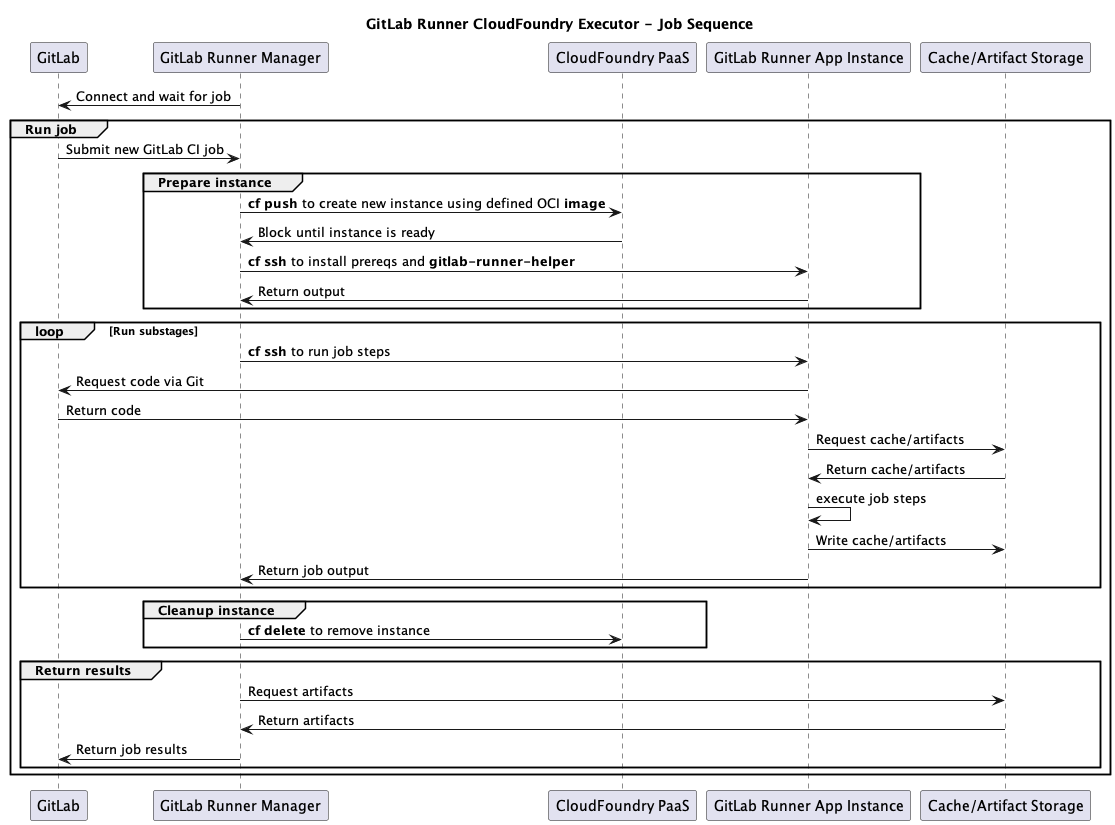
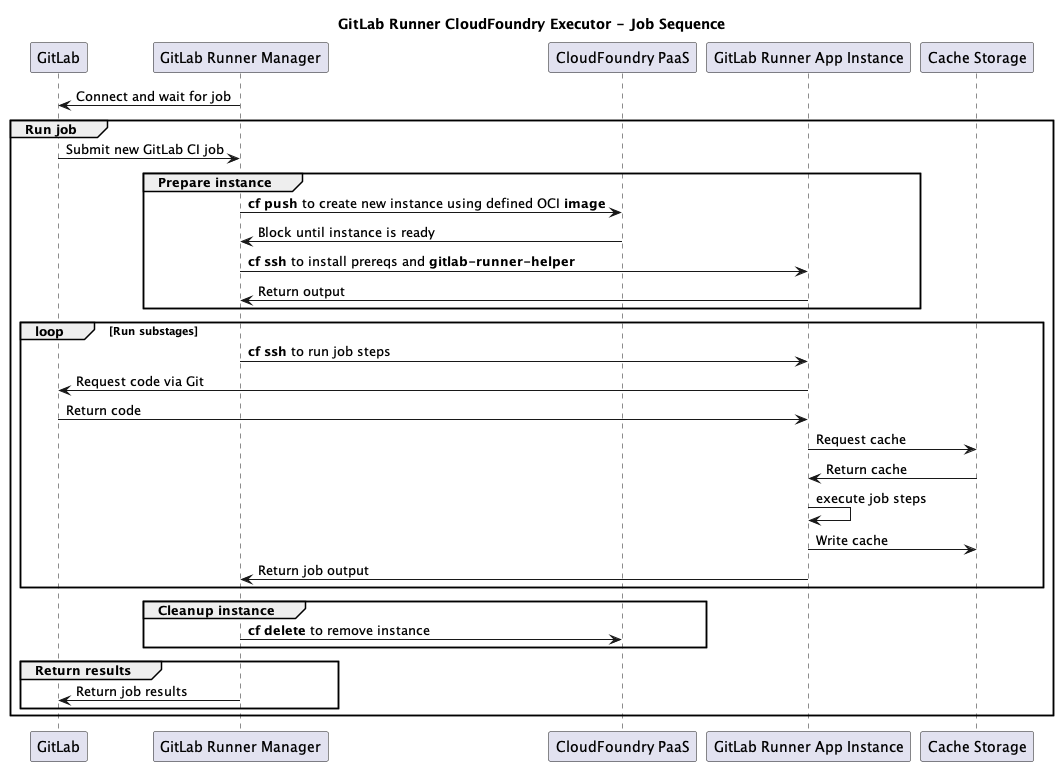
Strike artifact mention with regard to S3 cache

Changed region(s): [[0.0, 0.0, 0.9981, 1.0], [0.6862, 0.4804, 0.7174, 0.5104], [0.6862, 0.3003, 0.7174, 0.3303]]

diff --git a/README.md b/README.md
@@ -36,7 +36,7 @@ in [Runner Execution Flow](https://gitlab.com/gitlab-org/gitlab-runner/-/tree/ma
     cf create-service cloud-gov-service-account space-deployer SERVICE_ACCOUNT_INSTANCE -t "gitlab-service-account"
     ```
 
-4. Create a [cloud.gov brokered S3 bucket](https://cloud.gov/docs/services/s3/) - `basic-sandbox` is suggested as this will store temporary artifacts and cache.
+4. Create a [cloud.gov brokered S3 bucket](https://cloud.gov/docs/services/s3/) - `basic-sandbox` is suggested.
    Note that `OBJECT_STORE_INSTANCE` only needs to be unique within the specific space as it will have a prefix prepended to create the S3 bucket name.
     ```
     cf create-service s3 basic-sandbox OBJECT_STORE_INSTANCE
